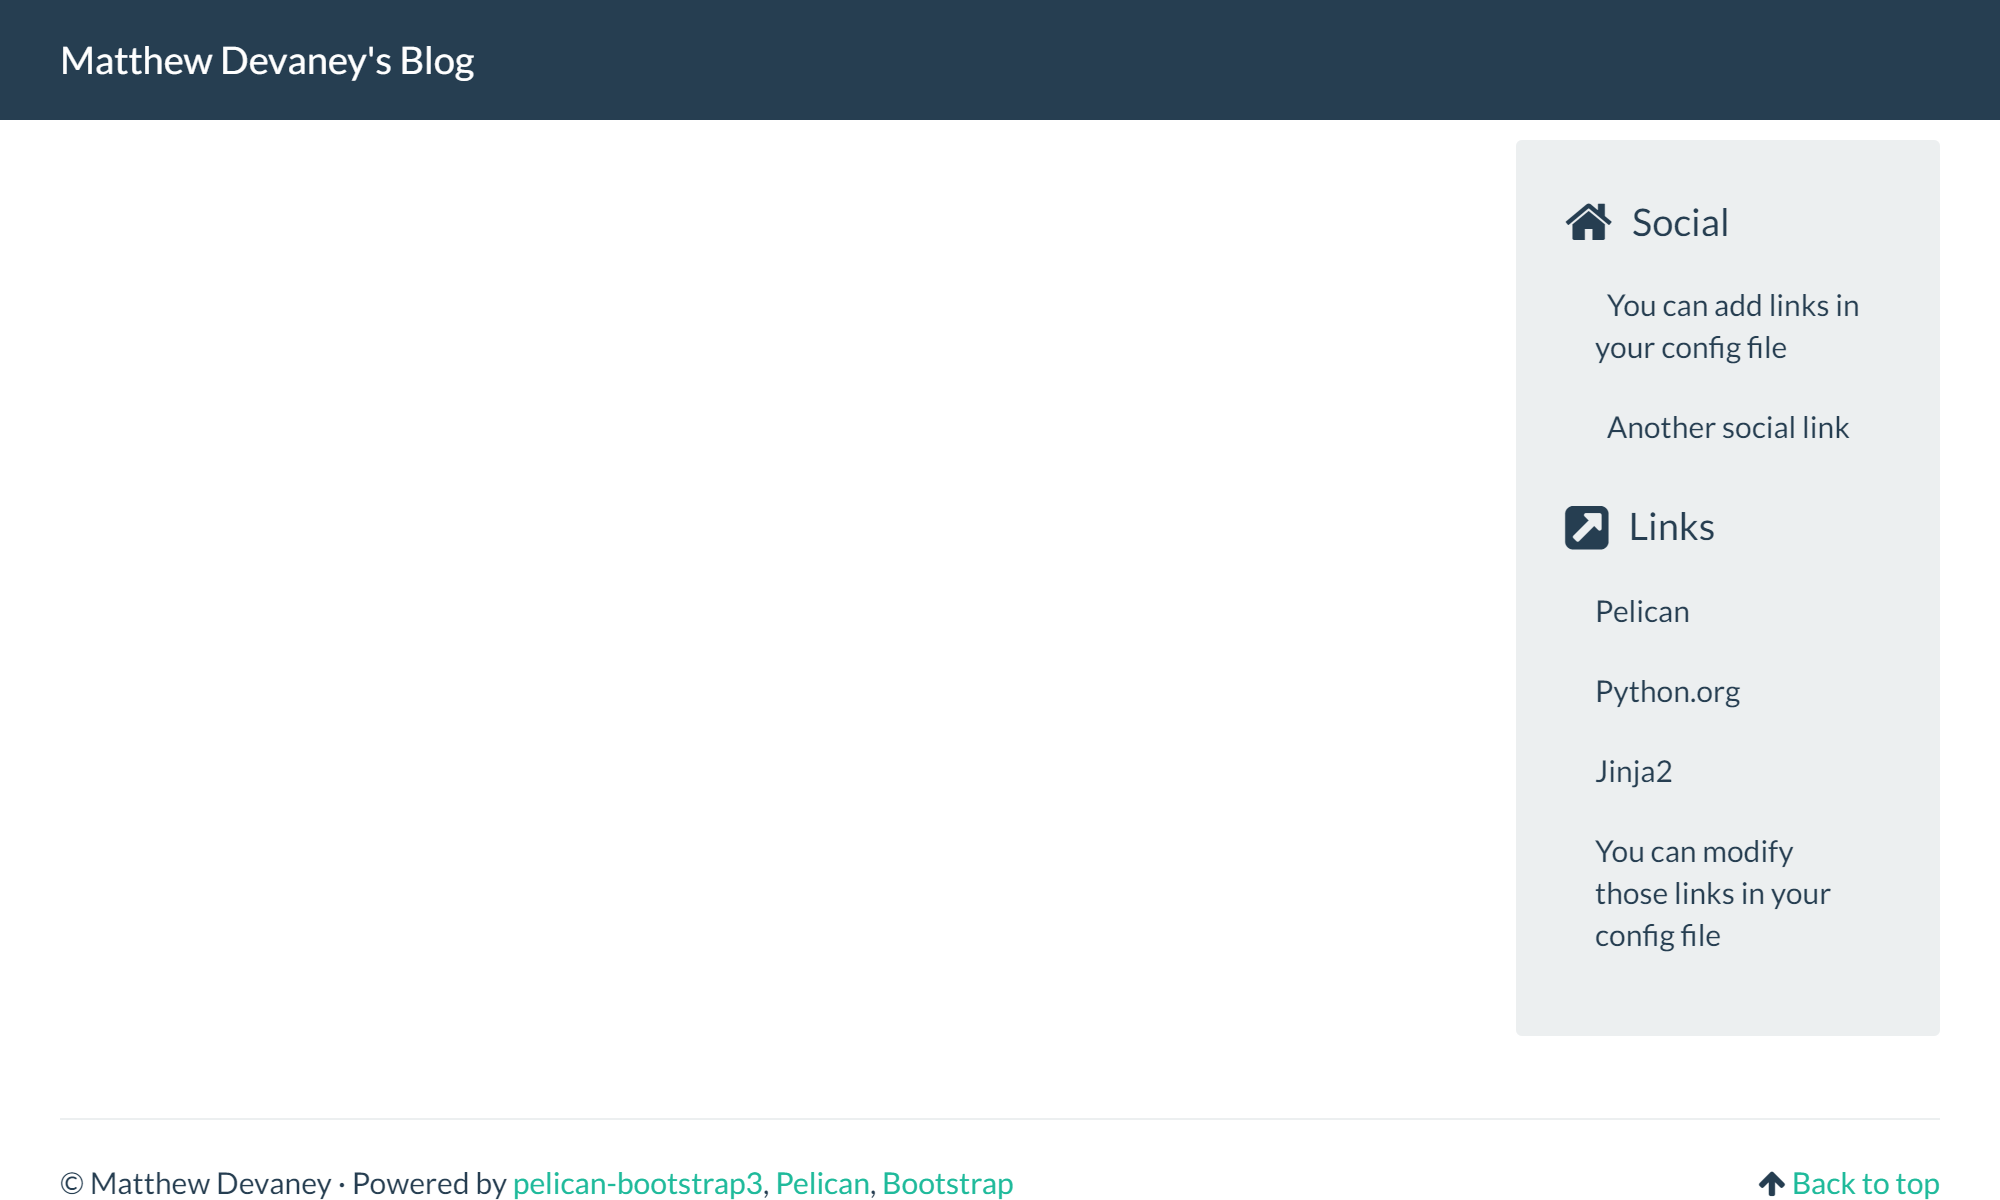
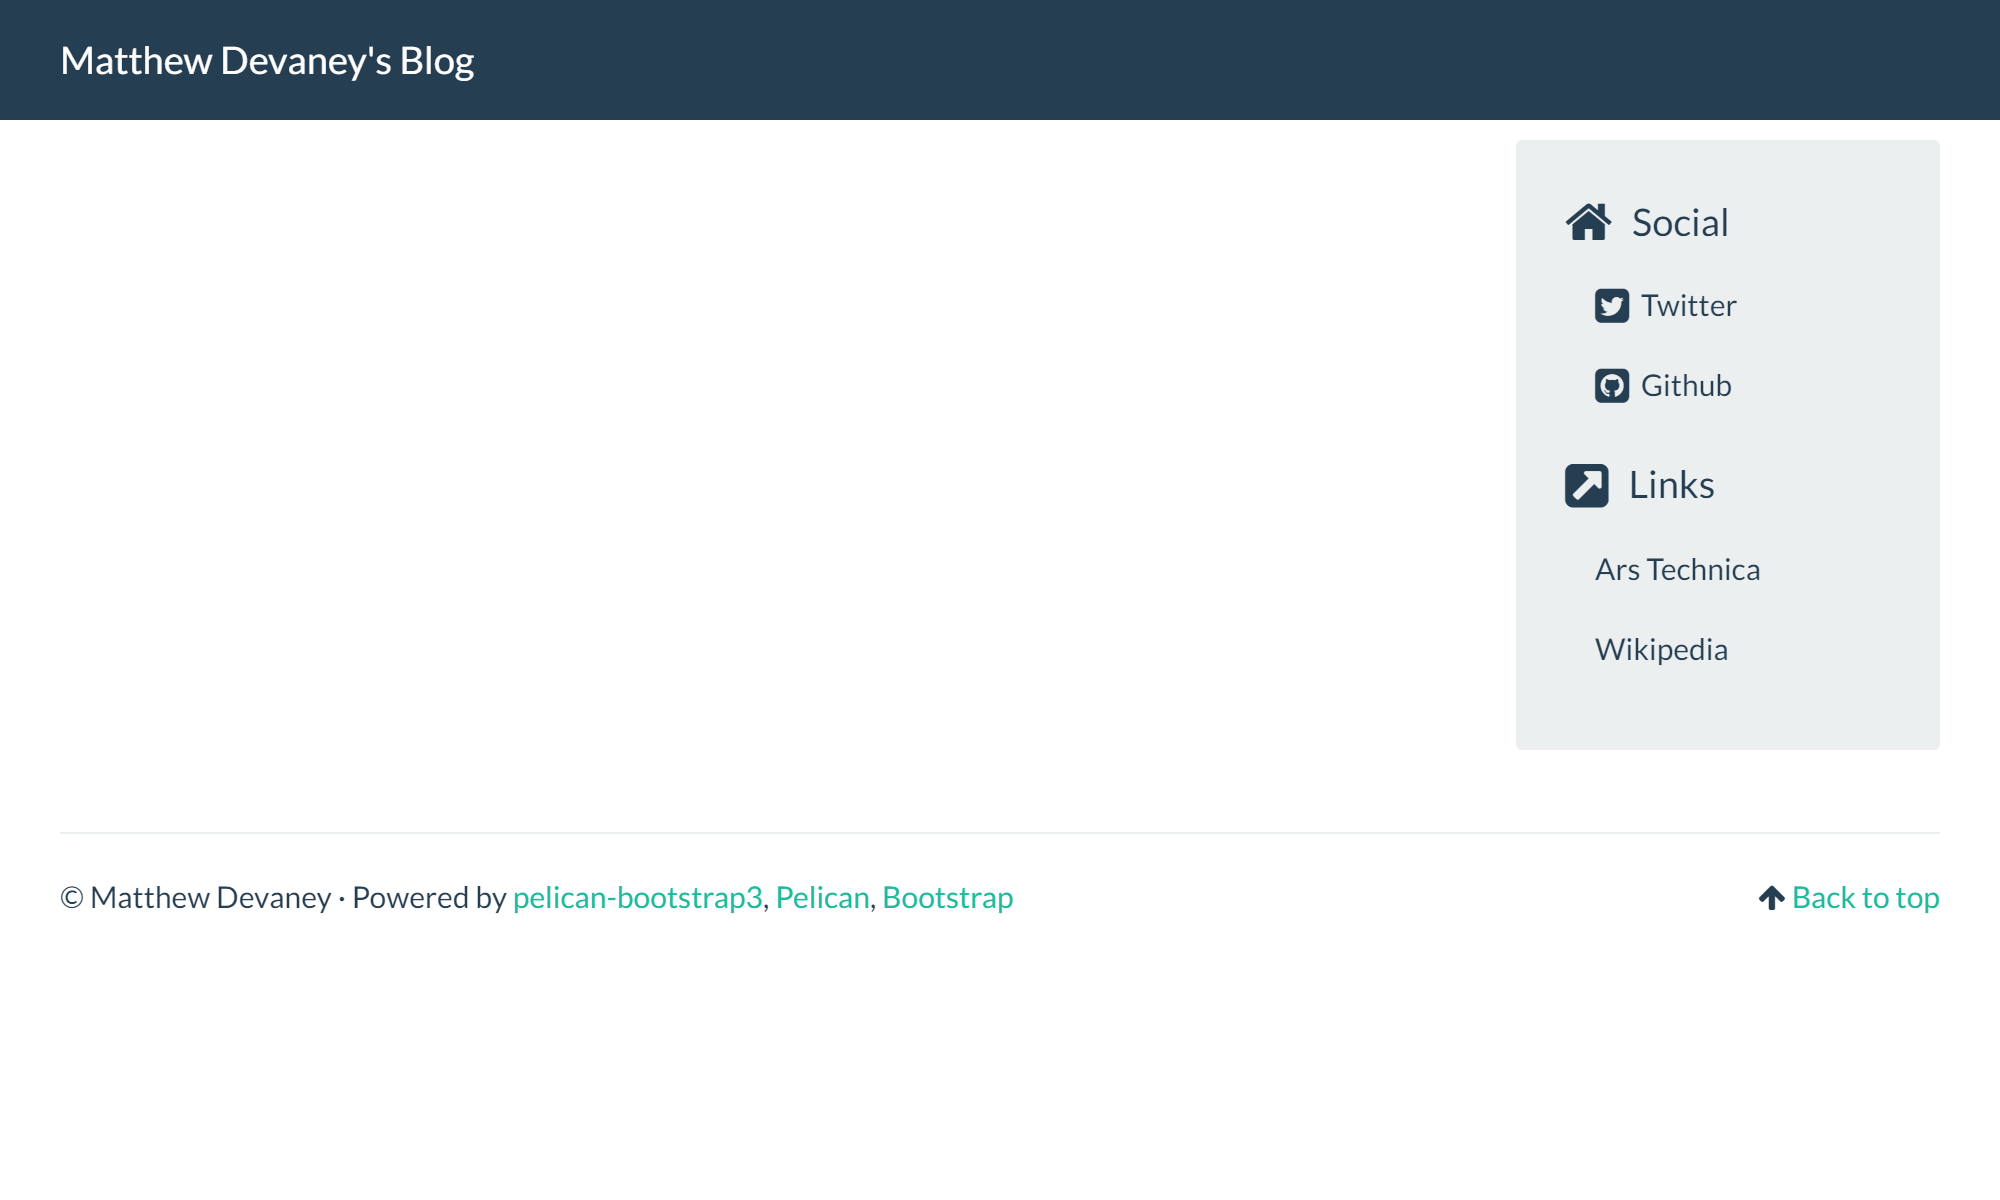
updated 2019-02-27

diff --git a/theme/css/pygments/bw.css b/theme/css/pygments/bw.css
@@ -1,35 +1,36 @@
+/* changed from font-weight bold and font-style italic */
 .highlight pre .hll { background-color: #ffffcc }
 .highlight pre  { background: #ffffff; }
 .highlight pre .c { font-style: italic } /* Comment */
 .highlight pre .err { border: 1px solid #FF0000 } /* Error */
-.highlight pre .k { font-weight: bold } /* Keyword */
-.highlight pre .cm { font-style: italic } /* Comment.Multiline */
-.highlight pre .c1 { font-style: italic } /* Comment.Single */
-.highlight pre .cs { font-style: italic } /* Comment.Special */
-.highlight pre .ge { font-style: italic } /* Generic.Emph */
-.highlight pre .gh { font-weight: bold } /* Generic.Heading */
-.highlight pre .gp { font-weight: bold } /* Generic.Prompt */
-.highlight pre .gs { font-weight: bold } /* Generic.Strong */
-.highlight pre .gu { font-weight: bold } /* Generic.Subheading */
-.highlight pre .kc { font-weight: bold } /* Keyword.Constant */
-.highlight pre .kd { font-weight: bold } /* Keyword.Declaration */
-.highlight pre .kn { font-weight: bold } /* Keyword.Namespace */
-.highlight pre .kr { font-weight: bold } /* Keyword.Reserved */
-.highlight pre .s { font-style: italic } /* Literal.String */
-.highlight pre .nc { font-weight: bold } /* Name.Class */
-.highlight pre .ni { font-weight: bold } /* Name.Entity */
-.highlight pre .ne { font-weight: bold } /* Name.Exception */
-.highlight pre .nn { font-weight: bold } /* Name.Namespace */
-.highlight pre .nt { font-weight: bold } /* Name.Tag */
-.highlight pre .ow { font-weight: bold } /* Operator.Word */
-.highlight pre .sb { font-style: italic } /* Literal.String.Backtick */
-.highlight pre .sc { font-style: italic } /* Literal.String.Char */
-.highlight pre .sd { font-style: italic } /* Literal.String.Doc */
-.highlight pre .s2 { font-style: italic } /* Literal.String.Double */
-.highlight pre .se { font-weight: bold; font-style: italic } /* Literal.String.Escape */
-.highlight pre .sh { font-style: italic } /* Literal.String.Heredoc */
-.highlight pre .si { font-weight: bold; font-style: italic } /* Literal.String.Interpol */
-.highlight pre .sx { font-style: italic } /* Literal.String.Other */
-.highlight pre .sr { font-style: italic } /* Literal.String.Regex */
-.highlight pre .s1 { font-style: italic } /* Literal.String.Single */
-.highlight pre .ss { font-style: italic } /* Literal.String.Symbol */
+.highlight pre .k { font-weight: normal } /* Keyword */
+.highlight pre .cm { font-style: normal } /* Comment.Multiline */
+.highlight pre .c1 { font-style: normal } /* Comment.Single */
+.highlight pre .cs { font-style: normal } /* Comment.Special */
+.highlight pre .ge { font-style: normal } /* Generic.Emph */
+.highlight pre .gh { font-weight: normal } /* Generic.Heading */
+.highlight pre .gp { font-weight: normal } /* Generic.Prompt */
+.highlight pre .gs { font-weight: normal } /* Generic.Strong */
+.highlight pre .gu { font-weight: normal } /* Generic.Subheading */
+.highlight pre .kc { font-weight: normal } /* Keyword.Constant */
+.highlight pre .kd { font-weight: normal } /* Keyword.Declaration */
+.highlight pre .kn { font-weight: normal } /* Keyword.Namespace */
+.highlight pre .kr { font-weight: normal } /* Keyword.Reserved */
+.highlight pre .s { font-style: normal } /* Literal.String */
+.highlight pre .nc { font-weight: normal } /* Name.Class */
+.highlight pre .ni { font-weight: normal } /* Name.Entity */
+.highlight pre .ne { font-weight: normal } /* Name.Exception */
+.highlight pre .nn { font-weight: normal } /* Name.Namespace */
+.highlight pre .nt { font-weight: normal } /* Name.Tag */
+.highlight pre .ow { font-weight: normal } /* Operator.Word */
+.highlight pre .sb { font-style: normal } /* Literal.String.Backtick */
+.highlight pre .sc { font-style: normal } /* Literal.String.Char */
+.highlight pre .sd { font-style: normal } /* Literal.String.Doc */
+.highlight pre .s2 { font-style: normal } /* Literal.String.Double */
+.highlight pre .se { font-weight: normal; font-style: normal } /* Literal.String.Escape */
+.highlight pre .sh { font-style: normal } /* Literal.String.Heredoc */
+.highlight pre .si { font-weight: normal; font-style: normal } /* Literal.String.Interpol */
+.highlight pre .sx { font-style: normal } /* Literal.String.Other */
+.highlight pre .sr { font-style: normal } /* Literal.String.Regex */
+.highlight pre .s1 { font-style: normal } /* Literal.String.Single */
+.highlight pre .ss { font-style: normal } /* Literal.String.Symbol */

diff --git a/posts/2019/02/23/build-a-static-website-with-pelican/index.html b/posts/2019/02/23/build-a-static-website-with-pelican/index.html
@@ -32,7 +32,7 @@
         <link rel="stylesheet" href="/theme/css/bootstrap.sandstone.min.css" type="text/css"/>
     <link href="/theme/css/font-awesome.min.css" rel="stylesheet">
 
-    <link href="/theme/css/pygments/colorful.css" rel="stylesheet">
+    <link href="/theme/css/pygments/bw.css" rel="stylesheet">
     <link rel="stylesheet" href="/theme/css/style.css" type="text/css"/>
 
 
@@ -280,8 +280,17 @@ Do you want to generate a tasks.py/Makefile to automate generation and publishin
 </pre></div>
 
 
-<p>At this time we can also change the style for code blocks we may write in our blog posts.  Pelican displays code blocks using the <a href="https://help.farbox.com/pygments.html">Pygments</a> code highlighter. To view a full list of the available Pygments styles go to the folder blog/source/theme/css/pygments. It contains many files with the filename <em>(some name).css</em>. Our website will use the <em>monokai.css</em> to style code blocks. Open <em>pelicanconf.py</em> and add the following line.</p>
+<p>At this time we can also change the style for code blocks we may write in our blog posts.  Pelican displays code blocks using the <a href="https://help.farbox.com/pygments.html">Pygments</a> code highlighter. To view a full list of the available Pygments styles go to the folder blog/source/theme/css/pygments. Our website will use <em>monokai.css</em> to style code blocks.  Add the following line to <em>pelicanconf.py</em>.</p>
 <div class="highlight"><pre><span></span><span class="n">PYGMENTS_STYLE</span> <span class="o">=</span> <span class="s1">&#39;monokai&#39;</span>
+</pre></div>
+
+
+<p>Finally, lets update the sidebar with our own preferred links and social pages.  You can use the websites below or choose your own.  Update the following line in <em>pelicanconf.py</em></p>
+<div class="highlight"><pre><span></span><span class="n">LINKS</span> <span class="o">=</span> <span class="p">((</span><span class="s1">&#39;Ars Technica&#39;</span><span class="p">,</span> <span class="s1">&#39;https://arstechnica.com/&#39;</span><span class="p">),</span>
+     <span class="p">(</span><span class="s1">&#39;Wikipedia&#39;</span><span class="p">,</span> <span class="s1">&#39;https://wikipedia.org&#39;</span><span class="p">),)</span>
+
+<span class="n">SOCIAL</span> <span class="o">=</span> <span class="p">((</span><span class="s1">&#39;Twitter&#39;</span><span class="p">,</span> <span class="s1">&#39;https://twitter.com/mbdevaney&#39;</span><span class="p">),</span>
+         <span class="p">(</span><span class="s1">&#39;Github&#39;</span><span class="p">,</span> <span class="s1">&#39;https://github.com/yourekittenme&#39;</span><span class="p">),)</span>
 </pre></div>
 
 

diff --git a/archives.html b/archives.html
@@ -25,7 +25,7 @@
         <link rel="stylesheet" href="/theme/css/bootstrap.sandstone.min.css" type="text/css"/>
     <link href="/theme/css/font-awesome.min.css" rel="stylesheet">
 
-    <link href="/theme/css/pygments/colorful.css" rel="stylesheet">
+    <link href="/theme/css/pygments/bw.css" rel="stylesheet">
     <link rel="stylesheet" href="/theme/css/style.css" type="text/css"/>
 
 

diff --git a/author/matthew-devaney.html b/author/matthew-devaney.html
@@ -25,7 +25,7 @@
         <link rel="stylesheet" href="/theme/css/bootstrap.sandstone.min.css" type="text/css"/>
     <link href="/theme/css/font-awesome.min.css" rel="stylesheet">
 
-    <link href="/theme/css/pygments/colorful.css" rel="stylesheet">
+    <link href="/theme/css/pygments/bw.css" rel="stylesheet">
     <link rel="stylesheet" href="/theme/css/style.css" type="text/css"/>
 
 

diff --git a/authors.html b/authors.html
@@ -25,7 +25,7 @@
         <link rel="stylesheet" href="/theme/css/bootstrap.sandstone.min.css" type="text/css"/>
     <link href="/theme/css/font-awesome.min.css" rel="stylesheet">
 
-    <link href="/theme/css/pygments/colorful.css" rel="stylesheet">
+    <link href="/theme/css/pygments/bw.css" rel="stylesheet">
     <link rel="stylesheet" href="/theme/css/style.css" type="text/css"/>
 
 

diff --git a/categories.html b/categories.html
@@ -25,7 +25,7 @@
         <link rel="stylesheet" href="/theme/css/bootstrap.sandstone.min.css" type="text/css"/>
     <link href="/theme/css/font-awesome.min.css" rel="stylesheet">
 
-    <link href="/theme/css/pygments/colorful.css" rel="stylesheet">
+    <link href="/theme/css/pygments/bw.css" rel="stylesheet">
     <link rel="stylesheet" href="/theme/css/style.css" type="text/css"/>
 
 

diff --git a/category/web-development.html b/category/web-development.html
@@ -26,7 +26,7 @@
         <link rel="stylesheet" href="/theme/css/bootstrap.sandstone.min.css" type="text/css"/>
     <link href="/theme/css/font-awesome.min.css" rel="stylesheet">
 
-    <link href="/theme/css/pygments/colorful.css" rel="stylesheet">
+    <link href="/theme/css/pygments/bw.css" rel="stylesheet">
     <link rel="stylesheet" href="/theme/css/style.css" type="text/css"/>
 
 

diff --git a/drafts/first-post.html b/drafts/first-post.html
@@ -29,7 +29,7 @@
         <link rel="stylesheet" href="/theme/css/bootstrap.sandstone.min.css" type="text/css"/>
     <link href="/theme/css/font-awesome.min.css" rel="stylesheet">
 
-    <link href="/theme/css/pygments/colorful.css" rel="stylesheet">
+    <link href="/theme/css/pygments/bw.css" rel="stylesheet">
     <link rel="stylesheet" href="/theme/css/style.css" type="text/css"/>
 
 

diff --git a/drafts/fourth-post.html b/drafts/fourth-post.html
@@ -32,7 +32,7 @@
         <link rel="stylesheet" href="/theme/css/bootstrap.sandstone.min.css" type="text/css"/>
     <link href="/theme/css/font-awesome.min.css" rel="stylesheet">
 
-    <link href="/theme/css/pygments/colorful.css" rel="stylesheet">
+    <link href="/theme/css/pygments/bw.css" rel="stylesheet">
     <link rel="stylesheet" href="/theme/css/style.css" type="text/css"/>
 
 

diff --git a/drafts/pelican-tutorial-part-0-.html b/drafts/pelican-tutorial-part-0-.html
@@ -29,7 +29,7 @@
         <link rel="stylesheet" href="/theme/css/bootstrap.sandstone.min.css" type="text/css"/>
     <link href="/theme/css/font-awesome.min.css" rel="stylesheet">
 
-    <link href="/theme/css/pygments/colorful.css" rel="stylesheet">
+    <link href="/theme/css/pygments/bw.css" rel="stylesheet">
     <link rel="stylesheet" href="/theme/css/style.css" type="text/css"/>
 
 

diff --git a/drafts/second-post.html b/drafts/second-post.html
@@ -29,7 +29,7 @@
         <link rel="stylesheet" href="/theme/css/bootstrap.sandstone.min.css" type="text/css"/>
     <link href="/theme/css/font-awesome.min.css" rel="stylesheet">
 
-    <link href="/theme/css/pygments/colorful.css" rel="stylesheet">
+    <link href="/theme/css/pygments/bw.css" rel="stylesheet">
     <link rel="stylesheet" href="/theme/css/style.css" type="text/css"/>
 
 

diff --git a/drafts/third-post.html b/drafts/third-post.html
@@ -29,7 +29,7 @@
         <link rel="stylesheet" href="/theme/css/bootstrap.sandstone.min.css" type="text/css"/>
     <link href="/theme/css/font-awesome.min.css" rel="stylesheet">
 
-    <link href="/theme/css/pygments/colorful.css" rel="stylesheet">
+    <link href="/theme/css/pygments/bw.css" rel="stylesheet">
     <link rel="stylesheet" href="/theme/css/style.css" type="text/css"/>
 
 
